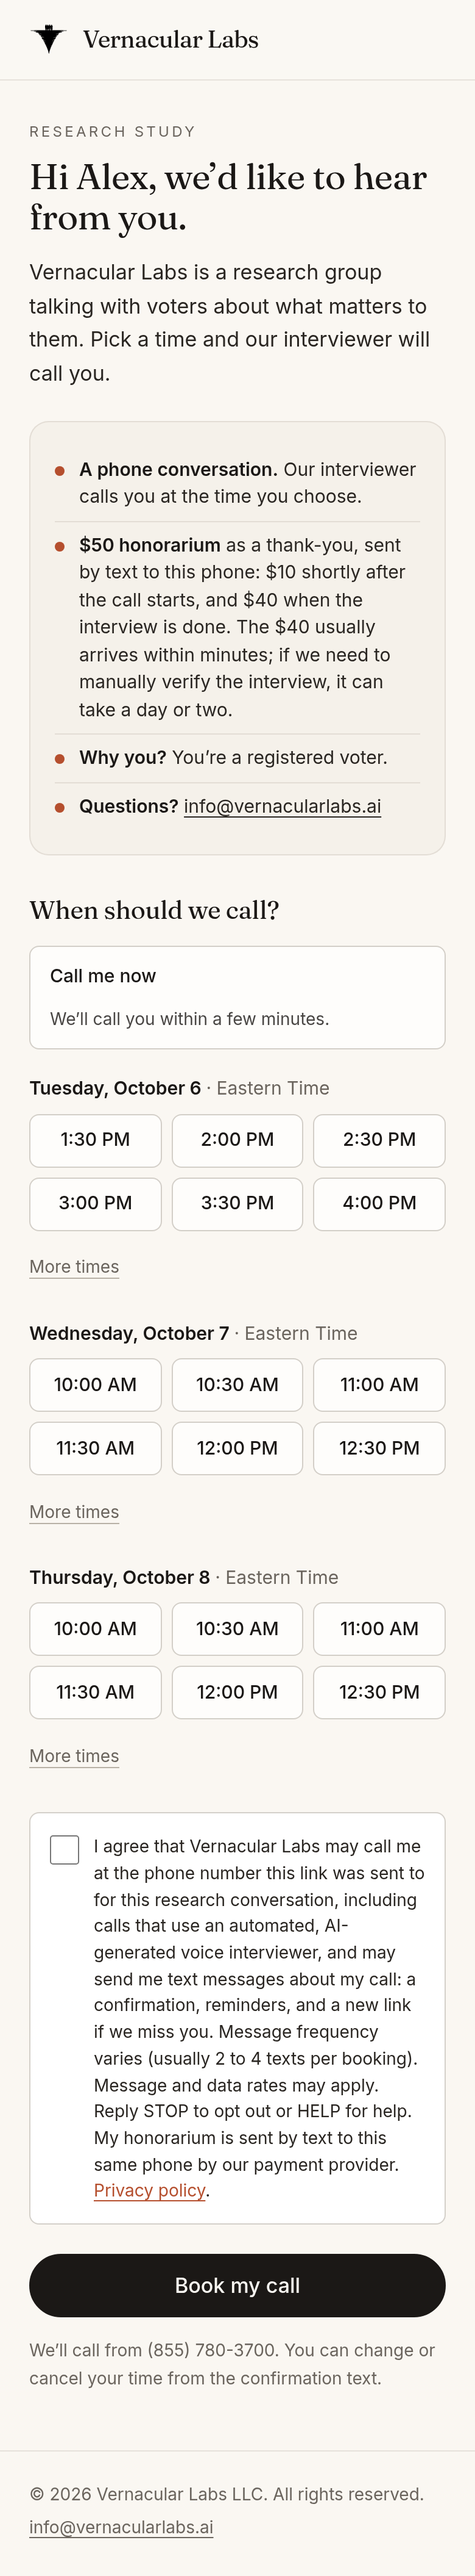
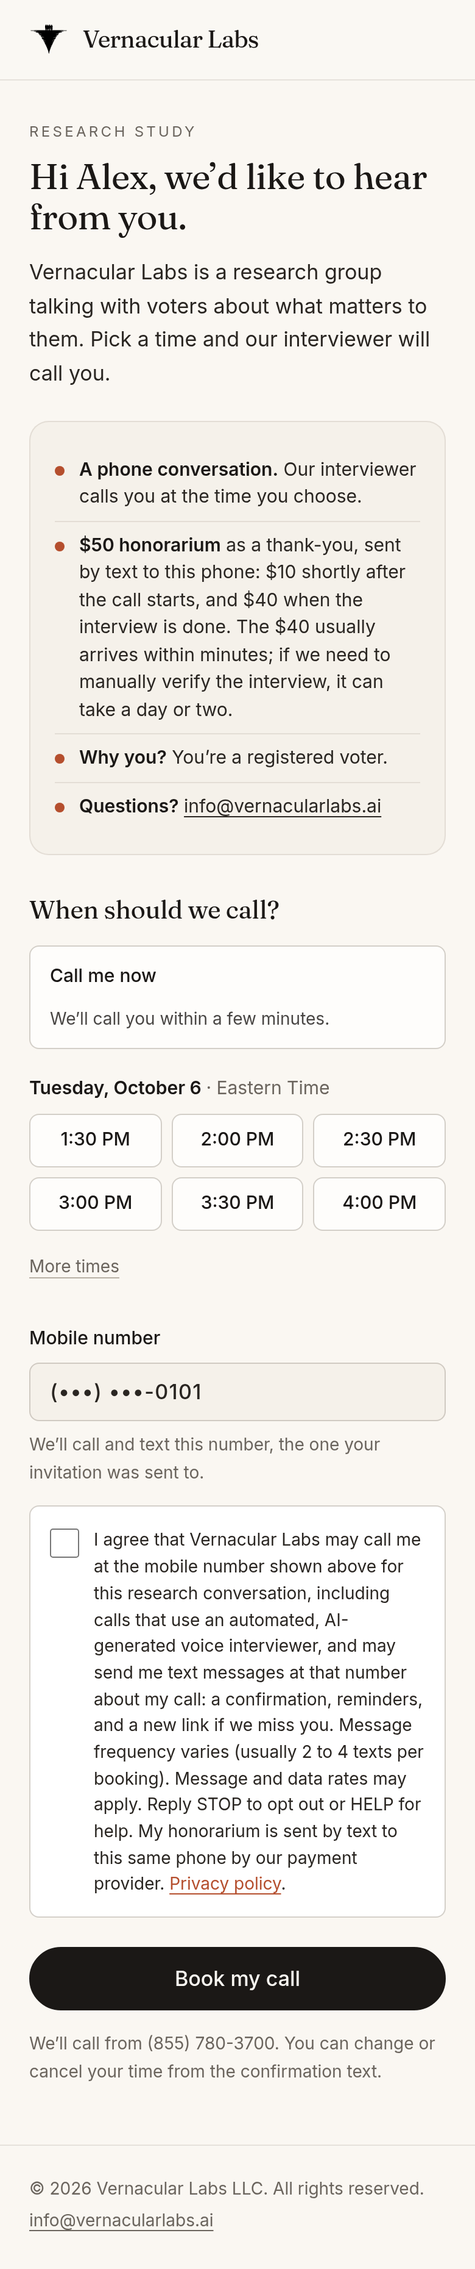
Opt-in evidence v2: Mobile number field, legible screenshots, consent close-up
- opt-in-1..4.png from vernacular-recruit `make optin-screenshots` (compact one-day page):
  full booking page, consent close-up with the logo header, consent error, confirmation
- The booking form now shows the invited number (masked) in a read-only Mobile number field;
  consent v3 refers to "the mobile number shown above"
- study/example regenerated from the same pages

diff --git a/public/study/example/error.html b/public/study/example/error.html
@@ -164,6 +164,11 @@ legend { padding: 0; }
 .more summary::-webkit-details-marker { display: none; }
 .more[open] summary { margin-bottom: var(--space-2); }
 
+.phone-field { margin: var(--space-6) 0 var(--space-4); }
+.phone-field label { display: block; font-size: var(--text-ui); font-weight: 500; color: var(--color-heading); margin-bottom: var(--space-2); }
+.phone-field input { width: 100%; box-sizing: border-box; min-height: 48px; padding: 0 var(--space-4); border: 1px solid var(--vl-border-strong); border-radius: var(--radius-md); background: var(--color-surface); color: var(--color-text); font: 500 var(--text-body)/1.2 var(--font-sans); letter-spacing: 0.04em; }
+.phone-field input:focus-visible { outline: 2px solid var(--vl-focus-ring); outline-offset: 2px; }
+.phone-field .fine { margin-top: var(--space-2); }
 .consent { display: flex; gap: var(--space-3); align-items: flex-start; padding: var(--space-4); border: 1px solid var(--vl-border-strong); border-radius: var(--radius-md); background: var(--vl-white); font-size: var(--text-md); line-height: 1.55; color: var(--color-text); margin-bottom: var(--space-6); cursor: pointer; }
 .consent input { flex: none; width: 24px; height: 24px; margin: 2px 0 0; accent-color: var(--vl-ink); cursor: pointer; }
 .consent input:focus-visible { outline: 2px solid var(--vl-focus-ring); outline-offset: 2px; }
@@ -287,42 +292,26 @@ footer p { margin: 0 0 var(--space-1); }
 
       <p class="day" id="day-1">Tuesday, October 6 <span class="zone">· Eastern Time</span></p>
       <div class="grid" role="group" aria-labelledby="day-1">
-        <label class="opt"><input type="radio" name="slot_id" value="01M3ABH3XA5YQQ3KPW36HMD94G" aria-label="Tuesday, October 6 at 1:30 PM EDT" required><span>1:30 PM</span></label><label class="opt"><input type="radio" name="slot_id" value="01M3ABH3XATXAD4SPJB9E87F6T" aria-label="Tuesday, October 6 at 2:00 PM EDT" required><span>2:00 PM</span></label><label class="opt"><input type="radio" name="slot_id" value="01M3ABH3XA0RYSKECA4E4G9Z4Z" aria-label="Tuesday, October 6 at 2:30 PM EDT" required><span>2:30 PM</span></label><label class="opt"><input type="radio" name="slot_id" value="01M3ABH3XBXAFAWQ2JXRMMFPPG" aria-label="Tuesday, October 6 at 3:00 PM EDT" required><span>3:00 PM</span></label><label class="opt"><input type="radio" name="slot_id" value="01M3ABH3XBXQNN6D49DH8WPAFG" aria-label="Tuesday, October 6 at 3:30 PM EDT" required><span>3:30 PM</span></label><label class="opt"><input type="radio" name="slot_id" value="01M3ABH3XBV1A1YF0V612GSMRA" aria-label="Tuesday, October 6 at 4:00 PM EDT" required><span>4:00 PM</span></label>
+        <label class="opt"><input type="radio" name="slot_id" value="01M3CXWSHT193CDTPQX31Z6D5C" aria-label="Tuesday, October 6 at 1:30 PM EDT" required checked><span>1:30 PM</span></label><label class="opt"><input type="radio" name="slot_id" value="01M3CXWSHTHDZ8KC3KXSJ7X41J" aria-label="Tuesday, October 6 at 2:00 PM EDT" required><span>2:00 PM</span></label><label class="opt"><input type="radio" name="slot_id" value="01M3CXWSHTYFJQ7DVZ24Z3HPHE" aria-label="Tuesday, October 6 at 2:30 PM EDT" required><span>2:30 PM</span></label><label class="opt"><input type="radio" name="slot_id" value="01M3CXWSHTQK81G8YVBM45Q153" aria-label="Tuesday, October 6 at 3:00 PM EDT" required><span>3:00 PM</span></label><label class="opt"><input type="radio" name="slot_id" value="01M3CXWSHTYP7VYCCZCY9488RG" aria-label="Tuesday, October 6 at 3:30 PM EDT" required><span>3:30 PM</span></label><label class="opt"><input type="radio" name="slot_id" value="01M3CXWSHVQDE5GV7SBRW5B1GH" aria-label="Tuesday, October 6 at 4:00 PM EDT" required><span>4:00 PM</span></label>
       </div>
   
       <details class="more">
         <summary>More times</summary>
-        <div class="grid" role="group" aria-labelledby="day-1"><label class="opt"><input type="radio" name="slot_id" value="01M3ABH3XB5WWQGDSFFGVM58D8" aria-label="Tuesday, October 6 at 4:30 PM EDT" required><span>4:30 PM</span></label><label class="opt"><input type="radio" name="slot_id" value="01M3ABH3XBFFADHHNQKF67YTBQ" aria-label="Tuesday, October 6 at 5:00 PM EDT" required><span>5:00 PM</span></label><label class="opt"><input type="radio" name="slot_id" value="01M3ABH3XCVW4V9DVPG4ZW9X97" aria-label="Tuesday, October 6 at 5:30 PM EDT" required><span>5:30 PM</span></label><label class="opt"><input type="radio" name="slot_id" value="01M3ABH3XCDC65T3MDYYDNKDYH" aria-label="Tuesday, October 6 at 6:00 PM EDT" required><span>6:00 PM</span></label><label class="opt"><input type="radio" name="slot_id" value="01M3ABH3XCJHRJJM7DY0X5PQKY" aria-label="Tuesday, October 6 at 6:30 PM EDT" required><span>6:30 PM</span></label><label class="opt"><input type="radio" name="slot_id" value="01M3ABH3XC5MDNZY5EX0PVM20A" aria-label="Tuesday, October 6 at 7:00 PM EDT" required><span>7:00 PM</span></label><label class="opt"><input type="radio" name="slot_id" value="01M3ABH3XDK6SJE5H7G7P522TK" aria-label="Tuesday, October 6 at 7:30 PM EDT" required><span>7:30 PM</span></label><label class="opt"><input type="radio" name="slot_id" value="01M3ABH3XDYRV6R9M4R72V1ZQ5" aria-label="Tuesday, October 6 at 8:00 PM EDT" required><span>8:00 PM</span></label><label class="opt"><input type="radio" name="slot_id" value="01M3ABH3XDDZ919AW9Q11RJD6H" aria-label="Tuesday, October 6 at 8:30 PM EDT" required><span>8:30 PM</span></label></div>
-      </details>
-  
-
-      <p class="day" id="day-2">Wednesday, October 7 <span class="zone">· Eastern Time</span></p>
-      <div class="grid" role="group" aria-labelledby="day-2">
-        <label class="opt"><input type="radio" name="slot_id" value="01M3ABH3XD7Q31T081ZF7HBB97" aria-label="Wednesday, October 7 at 10:00 AM EDT" required><span>10:00 AM</span></label><label class="opt"><input type="radio" name="slot_id" value="01M3ABH3XDSRQ43GYRNDGE2ZJK" aria-label="Wednesday, October 7 at 10:30 AM EDT" required><span>10:30 AM</span></label><label class="opt"><input type="radio" name="slot_id" value="01M3ABH3XEKDYKMW1SQRA1Y8W6" aria-label="Wednesday, October 7 at 11:00 AM EDT" required checked><span>11:00 AM</span></label><label class="opt"><input type="radio" name="slot_id" value="01M3ABH3XE6KF2ZMS3HPE85JV0" aria-label="Wednesday, October 7 at 11:30 AM EDT" required><span>11:30 AM</span></label><label class="opt"><input type="radio" name="slot_id" value="01M3ABH3XEW5NQ65M1CFPDZFCM" aria-label="Wednesday, October 7 at 12:00 PM EDT" required><span>12:00 PM</span></label><label class="opt"><input type="radio" name="slot_id" value="01M3ABH3XECZDRAGARAAVQY6BW" aria-label="Wednesday, October 7 at 12:30 PM EDT" required><span>12:30 PM</span></label>
-      </div>
-  
-      <details class="more">
-        <summary>More times</summary>
-        <div class="grid" role="group" aria-labelledby="day-2"><label class="opt"><input type="radio" name="slot_id" value="01M3ABH3XEP8F7W9ZZ6JM9SZB6" aria-label="Wednesday, October 7 at 1:00 PM EDT" required><span>1:00 PM</span></label><label class="opt"><input type="radio" name="slot_id" value="01M3ABH3XF6GBP76SVBJ1QJP9D" aria-label="Wednesday, October 7 at 1:30 PM EDT" required><span>1:30 PM</span></label><label class="opt"><input type="radio" name="slot_id" value="01M3ABH3XFPTK9XKZ2HPF48SMD" aria-label="Wednesday, October 7 at 2:00 PM EDT" required><span>2:00 PM</span></label><label class="opt"><input type="radio" name="slot_id" value="01M3ABH3XFHGDG97R9TWVGA95G" aria-label="Wednesday, October 7 at 2:30 PM EDT" required><span>2:30 PM</span></label><label class="opt"><input type="radio" name="slot_id" value="01M3ABH3XF4ZYQ1Z0MJ3A2KVN4" aria-label="Wednesday, October 7 at 3:00 PM EDT" required><span>3:00 PM</span></label><label class="opt"><input type="radio" name="slot_id" value="01M3ABH3XFPK99EFG93B3RSXFA" aria-label="Wednesday, October 7 at 3:30 PM EDT" required><span>3:30 PM</span></label><label class="opt"><input type="radio" name="slot_id" value="01M3ABH3XG1KKZ8J8WXTVQGAPG" aria-label="Wednesday, October 7 at 4:00 PM EDT" required><span>4:00 PM</span></label><label class="opt"><input type="radio" name="slot_id" value="01M3ABH3XGRTQ1B8PSK8TZCXQR" aria-label="Wednesday, October 7 at 4:30 PM EDT" required><span>4:30 PM</span></label><label class="opt"><input type="radio" name="slot_id" value="01M3ABH3XGPKJZ3RTT4M106Q8V" aria-label="Wednesday, October 7 at 5:00 PM EDT" required><span>5:00 PM</span></label><label class="opt"><input type="radio" name="slot_id" value="01M3ABH3XGHYZKCYC87X7F9M4A" aria-label="Wednesday, October 7 at 5:30 PM EDT" required><span>5:30 PM</span></label><label class="opt"><input type="radio" name="slot_id" value="01M3ABH3XGFS9FMD65NBCFRMD6" aria-label="Wednesday, October 7 at 6:00 PM EDT" required><span>6:00 PM</span></label><label class="opt"><input type="radio" name="slot_id" value="01M3ABH3XG4PM1K740XPW5PCMH" aria-label="Wednesday, October 7 at 6:30 PM EDT" required><span>6:30 PM</span></label><label class="opt"><input type="radio" name="slot_id" value="01M3ABH3XHYYNJ1RYJNHC5GFVR" aria-label="Wednesday, October 7 at 7:00 PM EDT" required><span>7:00 PM</span></label><label class="opt"><input type="radio" name="slot_id" value="01M3ABH3XHA2NAZQTGTXTRHHAB" aria-label="Wednesday, October 7 at 7:30 PM EDT" required><span>7:30 PM</span></label><label class="opt"><input type="radio" name="slot_id" value="01M3ABH3XH8Z3HCJFP1WK37P1K" aria-label="Wednesday, October 7 at 8:00 PM EDT" required><span>8:00 PM</span></label><label class="opt"><input type="radio" name="slot_id" value="01M3ABH3XH4MRM4Z50JEB7F35D" aria-label="Wednesday, October 7 at 8:30 PM EDT" required><span>8:30 PM</span></label></div>
-      </details>
-  
-
-      <p class="day" id="day-3">Thursday, October 8 <span class="zone">· Eastern Time</span></p>
-      <div class="grid" role="group" aria-labelledby="day-3">
-        <label class="opt"><input type="radio" name="slot_id" value="01M3ABH3XHVNC096VTTPPBYQY5" aria-label="Thursday, October 8 at 10:00 AM EDT" required><span>10:00 AM</span></label><label class="opt"><input type="radio" name="slot_id" value="01M3ABH3XJ8N4E0JF3ASFW9JKK" aria-label="Thursday, October 8 at 10:30 AM EDT" required><span>10:30 AM</span></label><label class="opt"><input type="radio" name="slot_id" value="01M3ABH3XJ5GVS31RZSFHD022W" aria-label="Thursday, October 8 at 11:00 AM EDT" required><span>11:00 AM</span></label><label class="opt"><input type="radio" name="slot_id" value="01M3ABH3XJV69T3CAX7EG4N876" aria-label="Thursday, October 8 at 11:30 AM EDT" required><span>11:30 AM</span></label><label class="opt"><input type="radio" name="slot_id" value="01M3ABH3XJJZGN7H78VVYD5YA7" aria-label="Thursday, October 8 at 12:00 PM EDT" required><span>12:00 PM</span></label><label class="opt"><input type="radio" name="slot_id" value="01M3ABH3XJ8WQF7KHY6TMGAWCW" aria-label="Thursday, October 8 at 12:30 PM EDT" required><span>12:30 PM</span></label>
-      </div>
-  
-      <details class="more">
-        <summary>More times</summary>
-        <div class="grid" role="group" aria-labelledby="day-3"><label class="opt"><input type="radio" name="slot_id" value="01M3ABH3XJ8VX9NKC1AW5FERV6" aria-label="Thursday, October 8 at 1:00 PM EDT" required><span>1:00 PM</span></label><label class="opt"><input type="radio" name="slot_id" value="01M3ABH3XKV93CVQCGSVV1F1FK" aria-label="Thursday, October 8 at 1:30 PM EDT" required><span>1:30 PM</span></label><label class="opt"><input type="radio" name="slot_id" value="01M3ABH3XKPN8HE43HXMZWT7MS" aria-label="Thursday, October 8 at 2:00 PM EDT" required><span>2:00 PM</span></label><label class="opt"><input type="radio" name="slot_id" value="01M3ABH3XKVPW2VNDX4PQTMP7B" aria-label="Thursday, October 8 at 2:30 PM EDT" required><span>2:30 PM</span></label><label class="opt"><input type="radio" name="slot_id" value="01M3ABH3XKHFBE4NQXMWD38G6Q" aria-label="Thursday, October 8 at 3:00 PM EDT" required><span>3:00 PM</span></label><label class="opt"><input type="radio" name="slot_id" value="01M3ABH3XKXCHZ8KPV0907FYYN" aria-label="Thursday, October 8 at 3:30 PM EDT" required><span>3:30 PM</span></label><label class="opt"><input type="radio" name="slot_id" value="01M3ABH3XM73V135VSNF73PEES" aria-label="Thursday, October 8 at 4:00 PM EDT" required><span>4:00 PM</span></label><label class="opt"><input type="radio" name="slot_id" value="01M3ABH3XMXBTP80490YKZ4M0B" aria-label="Thursday, October 8 at 4:30 PM EDT" required><span>4:30 PM</span></label><label class="opt"><input type="radio" name="slot_id" value="01M3ABH3XM9FCVH6NFR3G4DMD0" aria-label="Thursday, October 8 at 5:00 PM EDT" required><span>5:00 PM</span></label><label class="opt"><input type="radio" name="slot_id" value="01M3ABH3XMRV23FZDX0DPGWK1F" aria-label="Thursday, October 8 at 5:30 PM EDT" required><span>5:30 PM</span></label><label class="opt"><input type="radio" name="slot_id" value="01M3ABH3XM9GAT2ECTGMP8GQHT" aria-label="Thursday, October 8 at 6:00 PM EDT" required><span>6:00 PM</span></label><label class="opt"><input type="radio" name="slot_id" value="01M3ABH3XNPMRY85MRWPMK05K7" aria-label="Thursday, October 8 at 6:30 PM EDT" required><span>6:30 PM</span></label><label class="opt"><input type="radio" name="slot_id" value="01M3ABH3XNAGEGG673VWK28TGX" aria-label="Thursday, October 8 at 7:00 PM EDT" required><span>7:00 PM</span></label><label class="opt"><input type="radio" name="slot_id" value="01M3ABH3XNKV3DN6GAKSKQTM1K" aria-label="Thursday, October 8 at 7:30 PM EDT" required><span>7:30 PM</span></label><label class="opt"><input type="radio" name="slot_id" value="01M3ABH3XN5KZYYAHCFVN7SQRC" aria-label="Thursday, October 8 at 8:00 PM EDT" required><span>8:00 PM</span></label><label class="opt"><input type="radio" name="slot_id" value="01M3ABH3XN52T16BPGSYC78V3Q" aria-label="Thursday, October 8 at 8:30 PM EDT" required><span>8:30 PM</span></label></div>
+        <div class="grid" role="group" aria-labelledby="day-1"><label class="opt"><input type="radio" name="slot_id" value="01M3CXWSHV26NMV8EZCEXXHTJ1" aria-label="Tuesday, October 6 at 4:30 PM EDT" required><span>4:30 PM</span></label><label class="opt"><input type="radio" name="slot_id" value="01M3CXWSHVJSNPGDJF4RFF2EBG" aria-label="Tuesday, October 6 at 5:00 PM EDT" required><span>5:00 PM</span></label><label class="opt"><input type="radio" name="slot_id" value="01M3CXWSHVNCW914W7CDGTVF99" aria-label="Tuesday, October 6 at 5:30 PM EDT" required><span>5:30 PM</span></label><label class="opt"><input type="radio" name="slot_id" value="01M3CXWSHVC0RVSEJXN2PR247C" aria-label="Tuesday, October 6 at 6:00 PM EDT" required><span>6:00 PM</span></label><label class="opt"><input type="radio" name="slot_id" value="01M3CXWSHV7GFGSBC98VFPK2K5" aria-label="Tuesday, October 6 at 6:30 PM EDT" required><span>6:30 PM</span></label><label class="opt"><input type="radio" name="slot_id" value="01M3CXWSHW7ZPQQHBNCQ8BCJR6" aria-label="Tuesday, October 6 at 7:00 PM EDT" required><span>7:00 PM</span></label><label class="opt"><input type="radio" name="slot_id" value="01M3CXWSHW9CTZQT106WE69XA2" aria-label="Tuesday, October 6 at 7:30 PM EDT" required><span>7:30 PM</span></label><label class="opt"><input type="radio" name="slot_id" value="01M3CXWSHW5WVSR0DR5ENBY5X1" aria-label="Tuesday, October 6 at 8:00 PM EDT" required><span>8:00 PM</span></label><label class="opt"><input type="radio" name="slot_id" value="01M3CXWSHWEFMJV4THAJJBHH7T" aria-label="Tuesday, October 6 at 8:30 PM EDT" required><span>8:30 PM</span></label></div>
       </details>
   
 
     </fieldset>
 
+    <div class="phone-field">
+      <label for="mobile-number">Mobile number</label>
+      <input id="mobile-number" type="text" value="(•••) •••-0101" readonly aria-readonly="true" aria-describedby="mobile-number-note" autocomplete="off">
+      <p class="fine" id="mobile-number-note">We’ll call and text this number, the one your invitation was sent to.</p>
+    </div>
+
     <label class="consent">
       <input type="checkbox" name="consent" value="on" required>
-      <span>I agree that Vernacular Labs may call me at the phone number this link was sent to for this research conversation, including calls that use an automated, AI-generated voice interviewer, and may send me text messages about my call: a confirmation, reminders, and a new link if we miss you. Message frequency varies (usually 2 to 4 texts per booking). Message and data rates may apply. Reply STOP to opt out or HELP for help. My honorarium is sent by text to this same phone by our payment provider. <a href="https://vernacularlabs.ai/privacy" rel="noreferrer">Privacy policy</a>.</span>
+      <span>I agree that Vernacular Labs may call me at the mobile number shown above for this research conversation, including calls that use an automated, AI-generated voice interviewer, and may send me text messages at that number about my call: a confirmation, reminders, and a new link if we miss you. Message frequency varies (usually 2 to 4 texts per booking). Message and data rates may apply. Reply STOP to opt out or HELP for help. My honorarium is sent by text to this same phone by our payment provider. <a href="https://vernacularlabs.ai/privacy" rel="noreferrer">Privacy policy</a>.</span>
     </label>
 
     <button class="btn" type="submit" data-selected-label="Book {time}">Book my call</button>

diff --git a/public/study/example/index.html b/public/study/example/index.html
@@ -164,6 +164,11 @@ legend { padding: 0; }
 .more summary::-webkit-details-marker { display: none; }
 .more[open] summary { margin-bottom: var(--space-2); }
 
+.phone-field { margin: var(--space-6) 0 var(--space-4); }
+.phone-field label { display: block; font-size: var(--text-ui); font-weight: 500; color: var(--color-heading); margin-bottom: var(--space-2); }
+.phone-field input { width: 100%; box-sizing: border-box; min-height: 48px; padding: 0 var(--space-4); border: 1px solid var(--vl-border-strong); border-radius: var(--radius-md); background: var(--color-surface); color: var(--color-text); font: 500 var(--text-body)/1.2 var(--font-sans); letter-spacing: 0.04em; }
+.phone-field input:focus-visible { outline: 2px solid var(--vl-focus-ring); outline-offset: 2px; }
+.phone-field .fine { margin-top: var(--space-2); }
 .consent { display: flex; gap: var(--space-3); align-items: flex-start; padding: var(--space-4); border: 1px solid var(--vl-border-strong); border-radius: var(--radius-md); background: var(--vl-white); font-size: var(--text-md); line-height: 1.55; color: var(--color-text); margin-bottom: var(--space-6); cursor: pointer; }
 .consent input { flex: none; width: 24px; height: 24px; margin: 2px 0 0; accent-color: var(--vl-ink); cursor: pointer; }
 .consent input:focus-visible { outline: 2px solid var(--vl-focus-ring); outline-offset: 2px; }
@@ -282,42 +287,26 @@ footer p { margin: 0 0 var(--space-1); }
 
       <p class="day" id="day-1">Tuesday, October 6 <span class="zone">· Eastern Time</span></p>
       <div class="grid" role="group" aria-labelledby="day-1">
-        <label class="opt"><input type="radio" name="slot_id" value="01M3ABH3XA5YQQ3KPW36HMD94G" aria-label="Tuesday, October 6 at 1:30 PM EDT" required><span>1:30 PM</span></label><label class="opt"><input type="radio" name="slot_id" value="01M3ABH3XATXAD4SPJB9E87F6T" aria-label="Tuesday, October 6 at 2:00 PM EDT" required><span>2:00 PM</span></label><label class="opt"><input type="radio" name="slot_id" value="01M3ABH3XA0RYSKECA4E4G9Z4Z" aria-label="Tuesday, October 6 at 2:30 PM EDT" required><span>2:30 PM</span></label><label class="opt"><input type="radio" name="slot_id" value="01M3ABH3XBXAFAWQ2JXRMMFPPG" aria-label="Tuesday, October 6 at 3:00 PM EDT" required><span>3:00 PM</span></label><label class="opt"><input type="radio" name="slot_id" value="01M3ABH3XBXQNN6D49DH8WPAFG" aria-label="Tuesday, October 6 at 3:30 PM EDT" required><span>3:30 PM</span></label><label class="opt"><input type="radio" name="slot_id" value="01M3ABH3XBV1A1YF0V612GSMRA" aria-label="Tuesday, October 6 at 4:00 PM EDT" required><span>4:00 PM</span></label>
+        <label class="opt"><input type="radio" name="slot_id" value="01M3CXWSHT193CDTPQX31Z6D5C" aria-label="Tuesday, October 6 at 1:30 PM EDT" required><span>1:30 PM</span></label><label class="opt"><input type="radio" name="slot_id" value="01M3CXWSHTHDZ8KC3KXSJ7X41J" aria-label="Tuesday, October 6 at 2:00 PM EDT" required><span>2:00 PM</span></label><label class="opt"><input type="radio" name="slot_id" value="01M3CXWSHTYFJQ7DVZ24Z3HPHE" aria-label="Tuesday, October 6 at 2:30 PM EDT" required><span>2:30 PM</span></label><label class="opt"><input type="radio" name="slot_id" value="01M3CXWSHTQK81G8YVBM45Q153" aria-label="Tuesday, October 6 at 3:00 PM EDT" required><span>3:00 PM</span></label><label class="opt"><input type="radio" name="slot_id" value="01M3CXWSHTYP7VYCCZCY9488RG" aria-label="Tuesday, October 6 at 3:30 PM EDT" required><span>3:30 PM</span></label><label class="opt"><input type="radio" name="slot_id" value="01M3CXWSHVQDE5GV7SBRW5B1GH" aria-label="Tuesday, October 6 at 4:00 PM EDT" required><span>4:00 PM</span></label>
       </div>
   
       <details class="more">
         <summary>More times</summary>
-        <div class="grid" role="group" aria-labelledby="day-1"><label class="opt"><input type="radio" name="slot_id" value="01M3ABH3XB5WWQGDSFFGVM58D8" aria-label="Tuesday, October 6 at 4:30 PM EDT" required><span>4:30 PM</span></label><label class="opt"><input type="radio" name="slot_id" value="01M3ABH3XBFFADHHNQKF67YTBQ" aria-label="Tuesday, October 6 at 5:00 PM EDT" required><span>5:00 PM</span></label><label class="opt"><input type="radio" name="slot_id" value="01M3ABH3XCVW4V9DVPG4ZW9X97" aria-label="Tuesday, October 6 at 5:30 PM EDT" required><span>5:30 PM</span></label><label class="opt"><input type="radio" name="slot_id" value="01M3ABH3XCDC65T3MDYYDNKDYH" aria-label="Tuesday, October 6 at 6:00 PM EDT" required><span>6:00 PM</span></label><label class="opt"><input type="radio" name="slot_id" value="01M3ABH3XCJHRJJM7DY0X5PQKY" aria-label="Tuesday, October 6 at 6:30 PM EDT" required><span>6:30 PM</span></label><label class="opt"><input type="radio" name="slot_id" value="01M3ABH3XC5MDNZY5EX0PVM20A" aria-label="Tuesday, October 6 at 7:00 PM EDT" required><span>7:00 PM</span></label><label class="opt"><input type="radio" name="slot_id" value="01M3ABH3XDK6SJE5H7G7P522TK" aria-label="Tuesday, October 6 at 7:30 PM EDT" required><span>7:30 PM</span></label><label class="opt"><input type="radio" name="slot_id" value="01M3ABH3XDYRV6R9M4R72V1ZQ5" aria-label="Tuesday, October 6 at 8:00 PM EDT" required><span>8:00 PM</span></label><label class="opt"><input type="radio" name="slot_id" value="01M3ABH3XDDZ919AW9Q11RJD6H" aria-label="Tuesday, October 6 at 8:30 PM EDT" required><span>8:30 PM</span></label></div>
-      </details>
-  
-
-      <p class="day" id="day-2">Wednesday, October 7 <span class="zone">· Eastern Time</span></p>
-      <div class="grid" role="group" aria-labelledby="day-2">
-        <label class="opt"><input type="radio" name="slot_id" value="01M3ABH3XD7Q31T081ZF7HBB97" aria-label="Wednesday, October 7 at 10:00 AM EDT" required><span>10:00 AM</span></label><label class="opt"><input type="radio" name="slot_id" value="01M3ABH3XDSRQ43GYRNDGE2ZJK" aria-label="Wednesday, October 7 at 10:30 AM EDT" required><span>10:30 AM</span></label><label class="opt"><input type="radio" name="slot_id" value="01M3ABH3XEKDYKMW1SQRA1Y8W6" aria-label="Wednesday, October 7 at 11:00 AM EDT" required><span>11:00 AM</span></label><label class="opt"><input type="radio" name="slot_id" value="01M3ABH3XE6KF2ZMS3HPE85JV0" aria-label="Wednesday, October 7 at 11:30 AM EDT" required><span>11:30 AM</span></label><label class="opt"><input type="radio" name="slot_id" value="01M3ABH3XEW5NQ65M1CFPDZFCM" aria-label="Wednesday, October 7 at 12:00 PM EDT" required><span>12:00 PM</span></label><label class="opt"><input type="radio" name="slot_id" value="01M3ABH3XECZDRAGARAAVQY6BW" aria-label="Wednesday, October 7 at 12:30 PM EDT" required><span>12:30 PM</span></label>
-      </div>
-  
-      <details class="more">
-        <summary>More times</summary>
-        <div class="grid" role="group" aria-labelledby="day-2"><label class="opt"><input type="radio" name="slot_id" value="01M3ABH3XEP8F7W9ZZ6JM9SZB6" aria-label="Wednesday, October 7 at 1:00 PM EDT" required><span>1:00 PM</span></label><label class="opt"><input type="radio" name="slot_id" value="01M3ABH3XF6GBP76SVBJ1QJP9D" aria-label="Wednesday, October 7 at 1:30 PM EDT" required><span>1:30 PM</span></label><label class="opt"><input type="radio" name="slot_id" value="01M3ABH3XFPTK9XKZ2HPF48SMD" aria-label="Wednesday, October 7 at 2:00 PM EDT" required><span>2:00 PM</span></label><label class="opt"><input type="radio" name="slot_id" value="01M3ABH3XFHGDG97R9TWVGA95G" aria-label="Wednesday, October 7 at 2:30 PM EDT" required><span>2:30 PM</span></label><label class="opt"><input type="radio" name="slot_id" value="01M3ABH3XF4ZYQ1Z0MJ3A2KVN4" aria-label="Wednesday, October 7 at 3:00 PM EDT" required><span>3:00 PM</span></label><label class="opt"><input type="radio" name="slot_id" value="01M3ABH3XFPK99EFG93B3RSXFA" aria-label="Wednesday, October 7 at 3:30 PM EDT" required><span>3:30 PM</span></label><label class="opt"><input type="radio" name="slot_id" value="01M3ABH3XG1KKZ8J8WXTVQGAPG" aria-label="Wednesday, October 7 at 4:00 PM EDT" required><span>4:00 PM</span></label><label class="opt"><input type="radio" name="slot_id" value="01M3ABH3XGRTQ1B8PSK8TZCXQR" aria-label="Wednesday, October 7 at 4:30 PM EDT" required><span>4:30 PM</span></label><label class="opt"><input type="radio" name="slot_id" value="01M3ABH3XGPKJZ3RTT4M106Q8V" aria-label="Wednesday, October 7 at 5:00 PM EDT" required><span>5:00 PM</span></label><label class="opt"><input type="radio" name="slot_id" value="01M3ABH3XGHYZKCYC87X7F9M4A" aria-label="Wednesday, October 7 at 5:30 PM EDT" required><span>5:30 PM</span></label><label class="opt"><input type="radio" name="slot_id" value="01M3ABH3XGFS9FMD65NBCFRMD6" aria-label="Wednesday, October 7 at 6:00 PM EDT" required><span>6:00 PM</span></label><label class="opt"><input type="radio" name="slot_id" value="01M3ABH3XG4PM1K740XPW5PCMH" aria-label="Wednesday, October 7 at 6:30 PM EDT" required><span>6:30 PM</span></label><label class="opt"><input type="radio" name="slot_id" value="01M3ABH3XHYYNJ1RYJNHC5GFVR" aria-label="Wednesday, October 7 at 7:00 PM EDT" required><span>7:00 PM</span></label><label class="opt"><input type="radio" name="slot_id" value="01M3ABH3XHA2NAZQTGTXTRHHAB" aria-label="Wednesday, October 7 at 7:30 PM EDT" required><span>7:30 PM</span></label><label class="opt"><input type="radio" name="slot_id" value="01M3ABH3XH8Z3HCJFP1WK37P1K" aria-label="Wednesday, October 7 at 8:00 PM EDT" required><span>8:00 PM</span></label><label class="opt"><input type="radio" name="slot_id" value="01M3ABH3XH4MRM4Z50JEB7F35D" aria-label="Wednesday, October 7 at 8:30 PM EDT" required><span>8:30 PM</span></label></div>
-      </details>
-  
-
-      <p class="day" id="day-3">Thursday, October 8 <span class="zone">· Eastern Time</span></p>
-      <div class="grid" role="group" aria-labelledby="day-3">
-        <label class="opt"><input type="radio" name="slot_id" value="01M3ABH3XHVNC096VTTPPBYQY5" aria-label="Thursday, October 8 at 10:00 AM EDT" required><span>10:00 AM</span></label><label class="opt"><input type="radio" name="slot_id" value="01M3ABH3XJ8N4E0JF3ASFW9JKK" aria-label="Thursday, October 8 at 10:30 AM EDT" required><span>10:30 AM</span></label><label class="opt"><input type="radio" name="slot_id" value="01M3ABH3XJ5GVS31RZSFHD022W" aria-label="Thursday, October 8 at 11:00 AM EDT" required><span>11:00 AM</span></label><label class="opt"><input type="radio" name="slot_id" value="01M3ABH3XJV69T3CAX7EG4N876" aria-label="Thursday, October 8 at 11:30 AM EDT" required><span>11:30 AM</span></label><label class="opt"><input type="radio" name="slot_id" value="01M3ABH3XJJZGN7H78VVYD5YA7" aria-label="Thursday, October 8 at 12:00 PM EDT" required><span>12:00 PM</span></label><label class="opt"><input type="radio" name="slot_id" value="01M3ABH3XJ8WQF7KHY6TMGAWCW" aria-label="Thursday, October 8 at 12:30 PM EDT" required><span>12:30 PM</span></label>
-      </div>
-  
-      <details class="more">
-        <summary>More times</summary>
-        <div class="grid" role="group" aria-labelledby="day-3"><label class="opt"><input type="radio" name="slot_id" value="01M3ABH3XJ8VX9NKC1AW5FERV6" aria-label="Thursday, October 8 at 1:00 PM EDT" required><span>1:00 PM</span></label><label class="opt"><input type="radio" name="slot_id" value="01M3ABH3XKV93CVQCGSVV1F1FK" aria-label="Thursday, October 8 at 1:30 PM EDT" required><span>1:30 PM</span></label><label class="opt"><input type="radio" name="slot_id" value="01M3ABH3XKPN8HE43HXMZWT7MS" aria-label="Thursday, October 8 at 2:00 PM EDT" required><span>2:00 PM</span></label><label class="opt"><input type="radio" name="slot_id" value="01M3ABH3XKVPW2VNDX4PQTMP7B" aria-label="Thursday, October 8 at 2:30 PM EDT" required><span>2:30 PM</span></label><label class="opt"><input type="radio" name="slot_id" value="01M3ABH3XKHFBE4NQXMWD38G6Q" aria-label="Thursday, October 8 at 3:00 PM EDT" required><span>3:00 PM</span></label><label class="opt"><input type="radio" name="slot_id" value="01M3ABH3XKXCHZ8KPV0907FYYN" aria-label="Thursday, October 8 at 3:30 PM EDT" required><span>3:30 PM</span></label><label class="opt"><input type="radio" name="slot_id" value="01M3ABH3XM73V135VSNF73PEES" aria-label="Thursday, October 8 at 4:00 PM EDT" required><span>4:00 PM</span></label><label class="opt"><input type="radio" name="slot_id" value="01M3ABH3XMXBTP80490YKZ4M0B" aria-label="Thursday, October 8 at 4:30 PM EDT" required><span>4:30 PM</span></label><label class="opt"><input type="radio" name="slot_id" value="01M3ABH3XM9FCVH6NFR3G4DMD0" aria-label="Thursday, October 8 at 5:00 PM EDT" required><span>5:00 PM</span></label><label class="opt"><input type="radio" name="slot_id" value="01M3ABH3XMRV23FZDX0DPGWK1F" aria-label="Thursday, October 8 at 5:30 PM EDT" required><span>5:30 PM</span></label><label class="opt"><input type="radio" name="slot_id" value="01M3ABH3XM9GAT2ECTGMP8GQHT" aria-label="Thursday, October 8 at 6:00 PM EDT" required><span>6:00 PM</span></label><label class="opt"><input type="radio" name="slot_id" value="01M3ABH3XNPMRY85MRWPMK05K7" aria-label="Thursday, October 8 at 6:30 PM EDT" required><span>6:30 PM</span></label><label class="opt"><input type="radio" name="slot_id" value="01M3ABH3XNAGEGG673VWK28TGX" aria-label="Thursday, October 8 at 7:00 PM EDT" required><span>7:00 PM</span></label><label class="opt"><input type="radio" name="slot_id" value="01M3ABH3XNKV3DN6GAKSKQTM1K" aria-label="Thursday, October 8 at 7:30 PM EDT" required><span>7:30 PM</span></label><label class="opt"><input type="radio" name="slot_id" value="01M3ABH3XN5KZYYAHCFVN7SQRC" aria-label="Thursday, October 8 at 8:00 PM EDT" required><span>8:00 PM</span></label><label class="opt"><input type="radio" name="slot_id" value="01M3ABH3XN52T16BPGSYC78V3Q" aria-label="Thursday, October 8 at 8:30 PM EDT" required><span>8:30 PM</span></label></div>
+        <div class="grid" role="group" aria-labelledby="day-1"><label class="opt"><input type="radio" name="slot_id" value="01M3CXWSHV26NMV8EZCEXXHTJ1" aria-label="Tuesday, October 6 at 4:30 PM EDT" required><span>4:30 PM</span></label><label class="opt"><input type="radio" name="slot_id" value="01M3CXWSHVJSNPGDJF4RFF2EBG" aria-label="Tuesday, October 6 at 5:00 PM EDT" required><span>5:00 PM</span></label><label class="opt"><input type="radio" name="slot_id" value="01M3CXWSHVNCW914W7CDGTVF99" aria-label="Tuesday, October 6 at 5:30 PM EDT" required><span>5:30 PM</span></label><label class="opt"><input type="radio" name="slot_id" value="01M3CXWSHVC0RVSEJXN2PR247C" aria-label="Tuesday, October 6 at 6:00 PM EDT" required><span>6:00 PM</span></label><label class="opt"><input type="radio" name="slot_id" value="01M3CXWSHV7GFGSBC98VFPK2K5" aria-label="Tuesday, October 6 at 6:30 PM EDT" required><span>6:30 PM</span></label><label class="opt"><input type="radio" name="slot_id" value="01M3CXWSHW7ZPQQHBNCQ8BCJR6" aria-label="Tuesday, October 6 at 7:00 PM EDT" required><span>7:00 PM</span></label><label class="opt"><input type="radio" name="slot_id" value="01M3CXWSHW9CTZQT106WE69XA2" aria-label="Tuesday, October 6 at 7:30 PM EDT" required><span>7:30 PM</span></label><label class="opt"><input type="radio" name="slot_id" value="01M3CXWSHW5WVSR0DR5ENBY5X1" aria-label="Tuesday, October 6 at 8:00 PM EDT" required><span>8:00 PM</span></label><label class="opt"><input type="radio" name="slot_id" value="01M3CXWSHWEFMJV4THAJJBHH7T" aria-label="Tuesday, October 6 at 8:30 PM EDT" required><span>8:30 PM</span></label></div>
       </details>
   
 
     </fieldset>
 
+    <div class="phone-field">
+      <label for="mobile-number">Mobile number</label>
+      <input id="mobile-number" type="text" value="(•••) •••-0101" readonly aria-readonly="true" aria-describedby="mobile-number-note" autocomplete="off">
+      <p class="fine" id="mobile-number-note">We’ll call and text this number, the one your invitation was sent to.</p>
+    </div>
+
     <label class="consent">
       <input type="checkbox" name="consent" value="on" required>
-      <span>I agree that Vernacular Labs may call me at the phone number this link was sent to for this research conversation, including calls that use an automated, AI-generated voice interviewer, and may send me text messages about my call: a confirmation, reminders, and a new link if we miss you. Message frequency varies (usually 2 to 4 texts per booking). Message and data rates may apply. Reply STOP to opt out or HELP for help. My honorarium is sent by text to this same phone by our payment provider. <a href="https://vernacularlabs.ai/privacy" rel="noreferrer">Privacy policy</a>.</span>
+      <span>I agree that Vernacular Labs may call me at the mobile number shown above for this research conversation, including calls that use an automated, AI-generated voice interviewer, and may send me text messages at that number about my call: a confirmation, reminders, and a new link if we miss you. Message frequency varies (usually 2 to 4 texts per booking). Message and data rates may apply. Reply STOP to opt out or HELP for help. My honorarium is sent by text to this same phone by our payment provider. <a href="https://vernacularlabs.ai/privacy" rel="noreferrer">Privacy policy</a>.</span>
     </label>
 
     <button class="btn" type="submit" data-selected-label="Book {time}">Book my call</button>

diff --git a/public/study/example/confirmed.html b/public/study/example/confirmed.html
@@ -164,6 +164,11 @@ legend { padding: 0; }
 .more summary::-webkit-details-marker { display: none; }
 .more[open] summary { margin-bottom: var(--space-2); }
 
+.phone-field { margin: var(--space-6) 0 var(--space-4); }
+.phone-field label { display: block; font-size: var(--text-ui); font-weight: 500; color: var(--color-heading); margin-bottom: var(--space-2); }
+.phone-field input { width: 100%; box-sizing: border-box; min-height: 48px; padding: 0 var(--space-4); border: 1px solid var(--vl-border-strong); border-radius: var(--radius-md); background: var(--color-surface); color: var(--color-text); font: 500 var(--text-body)/1.2 var(--font-sans); letter-spacing: 0.04em; }
+.phone-field input:focus-visible { outline: 2px solid var(--vl-focus-ring); outline-offset: 2px; }
+.phone-field .fine { margin-top: var(--space-2); }
 .consent { display: flex; gap: var(--space-3); align-items: flex-start; padding: var(--space-4); border: 1px solid var(--vl-border-strong); border-radius: var(--radius-md); background: var(--vl-white); font-size: var(--text-md); line-height: 1.55; color: var(--color-text); margin-bottom: var(--space-6); cursor: pointer; }
 .consent input { flex: none; width: 24px; height: 24px; margin: 2px 0 0; accent-color: var(--vl-ink); cursor: pointer; }
 .consent input:focus-visible { outline: 2px solid var(--vl-focus-ring); outline-offset: 2px; }
@@ -223,7 +228,7 @@ footer p { margin: 0 0 var(--space-1); }
 <div role="note" style="margin:0 0 20px;padding:12px 14px;border:1px dashed #B54F2E;border-radius:10px;background:#FFF8F3;color:#1c1917;font-size:15px;line-height:1.45"><b>Example page.</b> This is what people we invite see when they open their personal scheduling link. The name and times are sample data, and no booking is made from this page.</div>
 
   <p class="eyebrow">You’re all set</p>
-  <h1>Thanks, Jordan. We’ll call you on Wednesday, October 7 at 11:00 AM EDT.</h1>
+  <h1>Thanks, Jordan. We’ll call you on Tuesday, October 6 at 1:30 PM EDT.</h1>
 
   <div class="card">
     <p class="card-label">We’ll call from</p>
